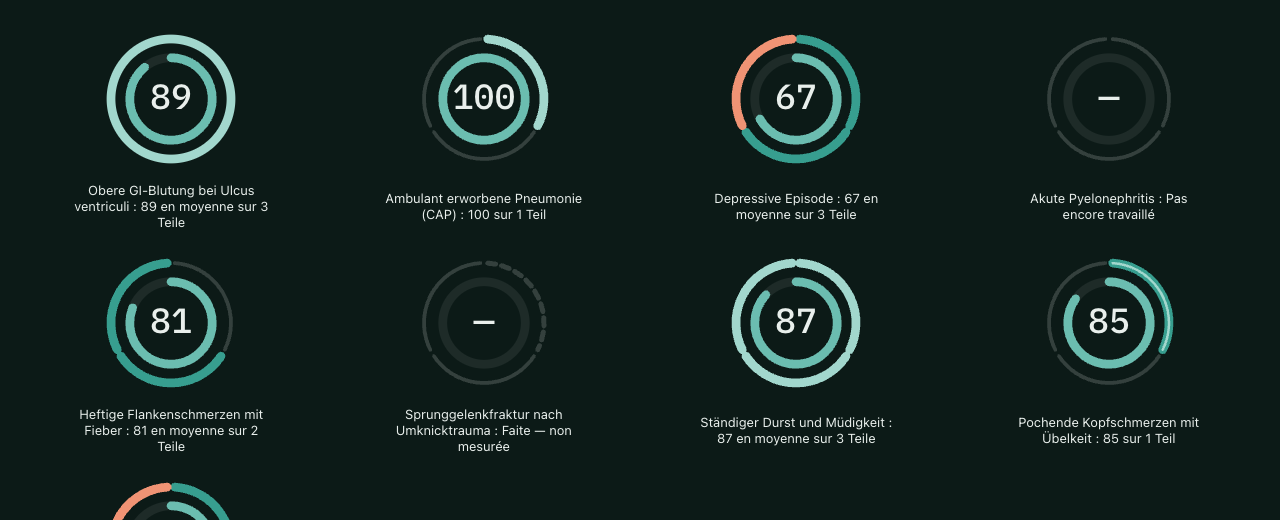
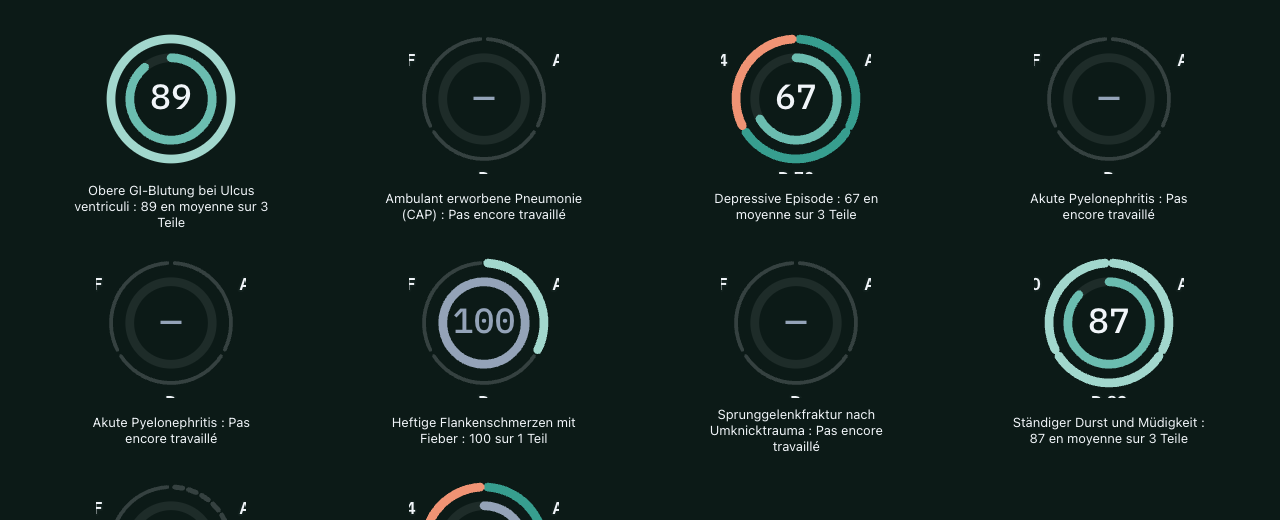
docs(s4-4): rapport — verdicts des trois revues, corrections, vérification refaite

diff --git a/app/docs/reports/lead-s4-4.md b/app/docs/reports/lead-s4-4.md
@@ -1,6 +1,6 @@
 # S4-4 — le cadran `CaseDial` (rapport de tâche)
 
-Branche `feat/s4-4-cadran` (base `origin/main` @ `f99364e1`). Statut : **DONE_WITH_CONCERNS** (le seul point resté ouvert : voir « À trancher »). Les trois points de la première version ont été tranchés par `main` le 5 oct. et appliqués.
+Branche `feat/s4-4-cadran` (base `origin/main` @ `f99364e1`). Statut : **DONE_WITH_CONCERNS** (après les trois revues : voir « Revues » et « À trancher »). Les trois points de la première version ont été tranchés par `main` le 5 oct. et appliqués.
 
 ## Livré
 | Fichier | Rôle |
@@ -30,11 +30,11 @@ API : `<CaseDial data size={36|64|96|160} nom? vientDeSouder? action? />`. `Case
 | Commande | Sortie |
 |---|---|
 | `tsc -b --noEmit` | 0 |
-| `vitest run --dir src --maxWorkers=2` | 0 (153 fichiers, 1 423 tests, rejoué après déplacement et changement de couleur) |
+| `vitest run --dir src --maxWorkers=2` | 0 (154 fichiers, 1 453 tests ; rejoué sur `0416ad3a`, dernier commit de code) |
 | `npm run test:c6` | 0 (6 fichiers, 59 tests) |
 | `npm run build` (env du Supabase local) | 0 |
 | `check*.mjs` de la CI (15 + `checkTermRegister --require-all` + `evalDoctopus --dry`), dont `checkUiTells` | 0 |
-| `checkFixedOverlays.mjs` | voir « Non vérifié » |
+| `checkFixedOverlays.mjs` (copie, absent de `origin/main`) | 0 violation dans mes fichiers (voir « Non vérifié ») |
 
 ## Vérification navigateur
 `vite preview` du build de **ce** worktree (port 4477, `index.html` servi identique à `dist/`), Supabase local de main (jamais arrêté, pas de `db:reset`), `playwright-cli` headless. Les `case_progress` de 8 cas ont été écrits dans l'IndexedDB de la session de test (vierge, entamé, couvert, solide, prêt soudé, à confirmer, acquis à date future, non mesurée), puis les `liveQuery` réveillées ; les mesures ci-dessous sont lues dans le DOM de l'app.
@@ -51,13 +51,32 @@ API : `<CaseDial data size={36|64|96|160} nom? vientDeSouder? action? />`. `Case
 `s4-4-liste-1280-clair-ferme.png` · `…-clair-ouvert.png` · `…-sombre-ferme.png` · `…-sombre-ouvert.png` · `…-clair-ouvert-mouvement-reduit.png` · `s4-4-liste-390-clair-ferme.png` · `…-390-clair-ouvert.png` · `…-390-sombre-ferme.png` · `…-390-sombre-ouvert.png` · `s4-4-planche-etats-clair.png` · `s4-4-planche-etats-sombre.png`. Les deux planches (clones SVG agrandis des cadrans rendus, une par état) sont aussi commitées dans `app/docs/reports/`.
 Chemin complet : `/private/tmp/claude-501/-Users-MehdiBoukari-Downloads-FSP-VB-Claude-FSP/fab928bf-94b4-4f3f-b28b-69e62e6e776f/scratchpad/s4-4/`.
 
+## Revues de `2696e7ce` et corrections (fixeur)
+Trois verdicts reçus : **Direction : PAS PRÊT** (l'intention « élargit les cercles et dévoile des détails » n'était pas atteinte sur la carte) ; **Charte : tient**, 3 corrections ; **Mécanique (Opus) : Needs fixes**, INV-59 respecté. Un commit par groupe :
+| Commit | Contenu |
+|---|---|
+| `8b35a03b` mécanique | I2 clic `detail 0` (Entrée/Espace/lecteur d'écran) au lieu de keydown ; m5 Tab depuis le détail rend le focus au cadran ; m3 un seul `MediaQueryList` : `useReducedMotion` réexporté par `lib/motion` (une ligne dans `lib/motion.ts`, demandée par main) ; I1/I3 tests du chemin visite → page → carte → arc ; m1 bornes. Tests écrits rouges d'abord (10 échecs avant le code). Mutation « `visite={null}` sur la carte » : 2 tests meurent. |
+| `bbe2a899` direction D2-D4 | `ProgressBadge` retiré de la carte ; « Simuler » = libellé + `?teil=` de `actionSuivante` (un seul `.btn-primary`), détail de la carte sans second bouton ; « Pour être prêt : rejoue-le d'un trait, en Autonome, grille de langue remplie » ; « Fait — non mesuré » (cas, masculin) ; difficulté nommée et rangée à droite de la ligne des centres. |
+| `86321bbd` direction D1/D5 + charte | l'ouverture (voir ci-dessous) ; chiffre et anneau intérieur en `--cd-discret` tant que `couverture < 3` ; liseré pétrole sur le bord de l'arc « à confirmer » (assumé, repris par la pastille du détail) ; C1 palette lue par `theme('colors.…')`, plus aucun hex, un seul gris, `rounded-card`, `var(--ease-out)`, focus global ; C2 police rendue ≥ 11 px. |
+| `8f44ac6f` | m4 `CaseCard` mémoïsée ; le détail se referme quand le focus quitte le cadran. |
+| `0416ad3a` | le cadran ouvert reste entier près du bord d'écran (défaut vu à 390 px) ; pieds de carte alignés. |
+
+**L'ouverture (D1)**, mesurée dans le DOM : le cadran 64 grandit à 96 px (`matrix(1.5…)`) sans bousculer la grille (la carte passe au-dessus), les arcs s'écartent de 9 unités (`translate(7.79, -4.5)`…) et passent de 7 à 9 d'épaisseur, les repères « A 78 / D 70 / F 54 » apparaissent en IBM Plex Sans à 11,0 px rendus, le panneau naît du cadran (`transform-origin` au centre du cadran, ressort de `lib/motion`) et ses lignes arrivent l'une après l'autre (`--i`). Échantillonnage image par image : échelle monotone 1 → 1,5 en ~420 ms ; panneau opacité 0,26 → 1 et échelle 0,57 → 1 ; **fermer à mi-course** repart de l'échelle courante (1,358 → 1,03 → 1), sans saut. Sous mouvement réduit (OS réduit, page rechargée) : `--cd-echelle: 1`, svg `none`, arcs `none`, épaisseur 7, aucun repère, panneau `none` et ses lignes sans animation.
+
+**Écarts assumés par rapport aux revues**
+- Charte « `.cd-sub` en mono, `letter-spacing: 0.06em` » **non appliqué** : ADR-0016 et `checkUiTells` rejettent le mono espacé en libellé. `.cd-sub` reste en Sans, et n'existe plus qu'à 160 px (à 96 px « maîtrise » ne tient pas à 11 px dans l'anneau).
+- I1 : la garde existait déjà (`if (!cases || !progress) return Chargement`, avant le rendu de la grille) ; la revue lisait `cpOf` qui tolère `undefined`. Le test à progression retardée la verrouille maintenant.
+- m3 : le réglage est lu par `useReducedMotion` de motion, **non réactif** à un changement en cours de session (comme `MotionRoot`) ; le CSS, lui, suit en direct.
+- m4 : 130 cartes, une frappe dans le filtre : 88-150 ms avant, 90-310 ms après `memo` jusqu'à la 2e image, **sur une machine à charge 15-85**. Le coût vient du montage des cartes que le filtre fait apparaître (~1-2 ms/carte), pas du re-rendu des cartes inchangées. Mesure non concluante en valeur absolue ; `memo` gardée (sans coût), pas d'autre optimisation.
+- m2 (pour le contrat, à inscrire par main) : `vientDEtreJoue` a **une seconde source** sur la carte : « Teil dont `lastAt` > dernière visite locale » (`localStorage` `doctopus-cas-visite`, par compte en mode fondateur), en plus de `Lauf.teileGespielt` en fin de partie. Comparaison de dates, pas une mesure.
+
 ## Décisions de main appliquées (5 oct.)
 1. **Contraste de « acquis » en clair** : `--cd-acquis` passe de `#6bbdb0` (2,0:1) à `#379e8f` (2,98:1 sur le papier, 3,26:1 sur blanc), par la variable ; sombre inchangé. Lu dans le DOM : `stroke: rgb(55, 158, 143)` en clair et en sombre. Test : la variable est dans `:root`, le composant ne code aucune couleur. Planches d'états recapturées (commitées). Les captures 390/1280 de la section précédente ont été prises AVANT ce changement, seul l'arc « acquis » en clair diffère.
 2. **Chemin** : `components/visuals/` (voir plus haut).
 3. **Mouvement réduit** : le détail en verre, immobile, est retenu.
 
 ## À trancher
-Rien de bloquant. Le « vierge » reste volontairement discret (1,4:1 en clair), il n'est jamais un signal d'erreur.
+Rien de bloquant. Le « vierge » reste volontairement discret (1,4:1 en clair), il n'est jamais un signal d'erreur. Le bouton unique de la carte porte des libellés longs (« Reprendre par la Fallvorstellung ») : ils passent sur deux lignes dans les colonnes étroites ; à juger.
 
 ## Non vérifié
 - **`checkFixedOverlays.mjs` n'existe pas sur `origin/main`** (fichier non suivi dans le dépôt de Mehdi). Exécuté sur une copie : **aucune violation dans mes fichiers** (le détail du cadran porte son `<Portal>`). Il signale 10 autres manquements préexistants : `features/cases/CasePreviewPanel.tsx:23-24`, `features/fachbegriffe/{CaseTermsPanel,DeckSheet,SrsSettingsSheet}.tsx` et `.reveal`/`.stagger` dans `styles/index.css` — des fichiers que Mehdi modifie en ce moment dans l'arbre principal ; je n'y ai pas touché.
@@ -69,3 +88,18 @@ Rien de bloquant. Le « vierge » reste volontairement discret (1,4:1 en clair),
 ## Pour les suivants
 - S4-3 : `<CaseDialDetail data />` pour le détail déjà ouvert ; `action={false}` si on est déjà dans le cas ; fin de partie : `dialData(cp, { lauf })` donne `vientDEtreJoue`, et `vientDeSouder` se dérive de `pretAt` vs début de partie.
 - Le pointillé et le fil « à confirmer » sont invisibles à 36 px : le détail et l'étiquette portent l'information.
+
+## Vérification navigateur refaite après les revues (build de ce worktree, `vite preview` port 4477)
+Supabase local de main : saturé par la charge de la machine pendant la séance (HTTP 000/500/503/546, conteneurs « unhealthy ») ; je ne l'ai ni redémarré ni touché. Pour les sessions de test, les requêtes vers `127.0.0.1:54321` ont été **coupées côté navigateur** (`context.route(...).abort()`), le contenu (12 cas synthétiques + `contentVersion=1`) et les `case_progress` étant écrits dans l'IndexedDB de la session ; le chemin d'amorçage hors ligne de l'app est donc exercé, pas le pull du serveur.
+- **Souris** : survol → ouvert 305-332 ms après `pointerover` ; sortie → fermé ; clic bref de souris (detail 1) : n'ouvre rien.
+- **Doigt (iPhone 15 émulé, 390 px, `Input.dispatchTouchEvent`)** : appui long → ouvert, vibration 12 ms, détail 288 px dans l'écran, `scrollWidth` 390 ; tap ailleurs → fermé. Le cadran proche du bord droit se décale pour rester entier.
+- **Clavier** : Entrée ouvre, Échap ferme (focus rendu au cadran), Espace ouvre, Tab referme.
+- **Clic synthétique** (`element.click()`, detail 0) : ouvre et referme (desktop et mobile).
+- **Mouvement réduit** : voir plus haut.
+- Captures (`scratchpad/s4-4/`) : `s4-4-liste-1280-{clair,sombre}-{ferme,ouvert}.png`, `s4-4-liste-390-{clair,sombre}-{ferme,ouvert}.png`, `s4-4-liste-1280-clair-ouvert-mouvement-reduit.png` (prise avant la dernière retouche de décalage, comportement inchangé), séquence d'ouverture ralentie (CDP `Animation.setPlaybackRate 0,1`) `s4-4-ouverture-1-debut.png`, `-2-milieu.png`, `-3-fin.png`, planches d'états (commitées dans `app/docs/reports/`).
+- La planche d'états montre l'état `acquis` en `#379e8f` (clair et sombre) et le liseré « à confirmer ».
+
+### Non vérifié (ajouts)
+- Le pull réel du contenu depuis le Supabase local (indisponible, voir ci-dessus).
+- Le seuil de 11 px est vérifié par le calcul `font-size × taille rendue / 120` dans le DOM, pas par mesure de pixels.
+- L'appui long sur un vrai iPhone.
